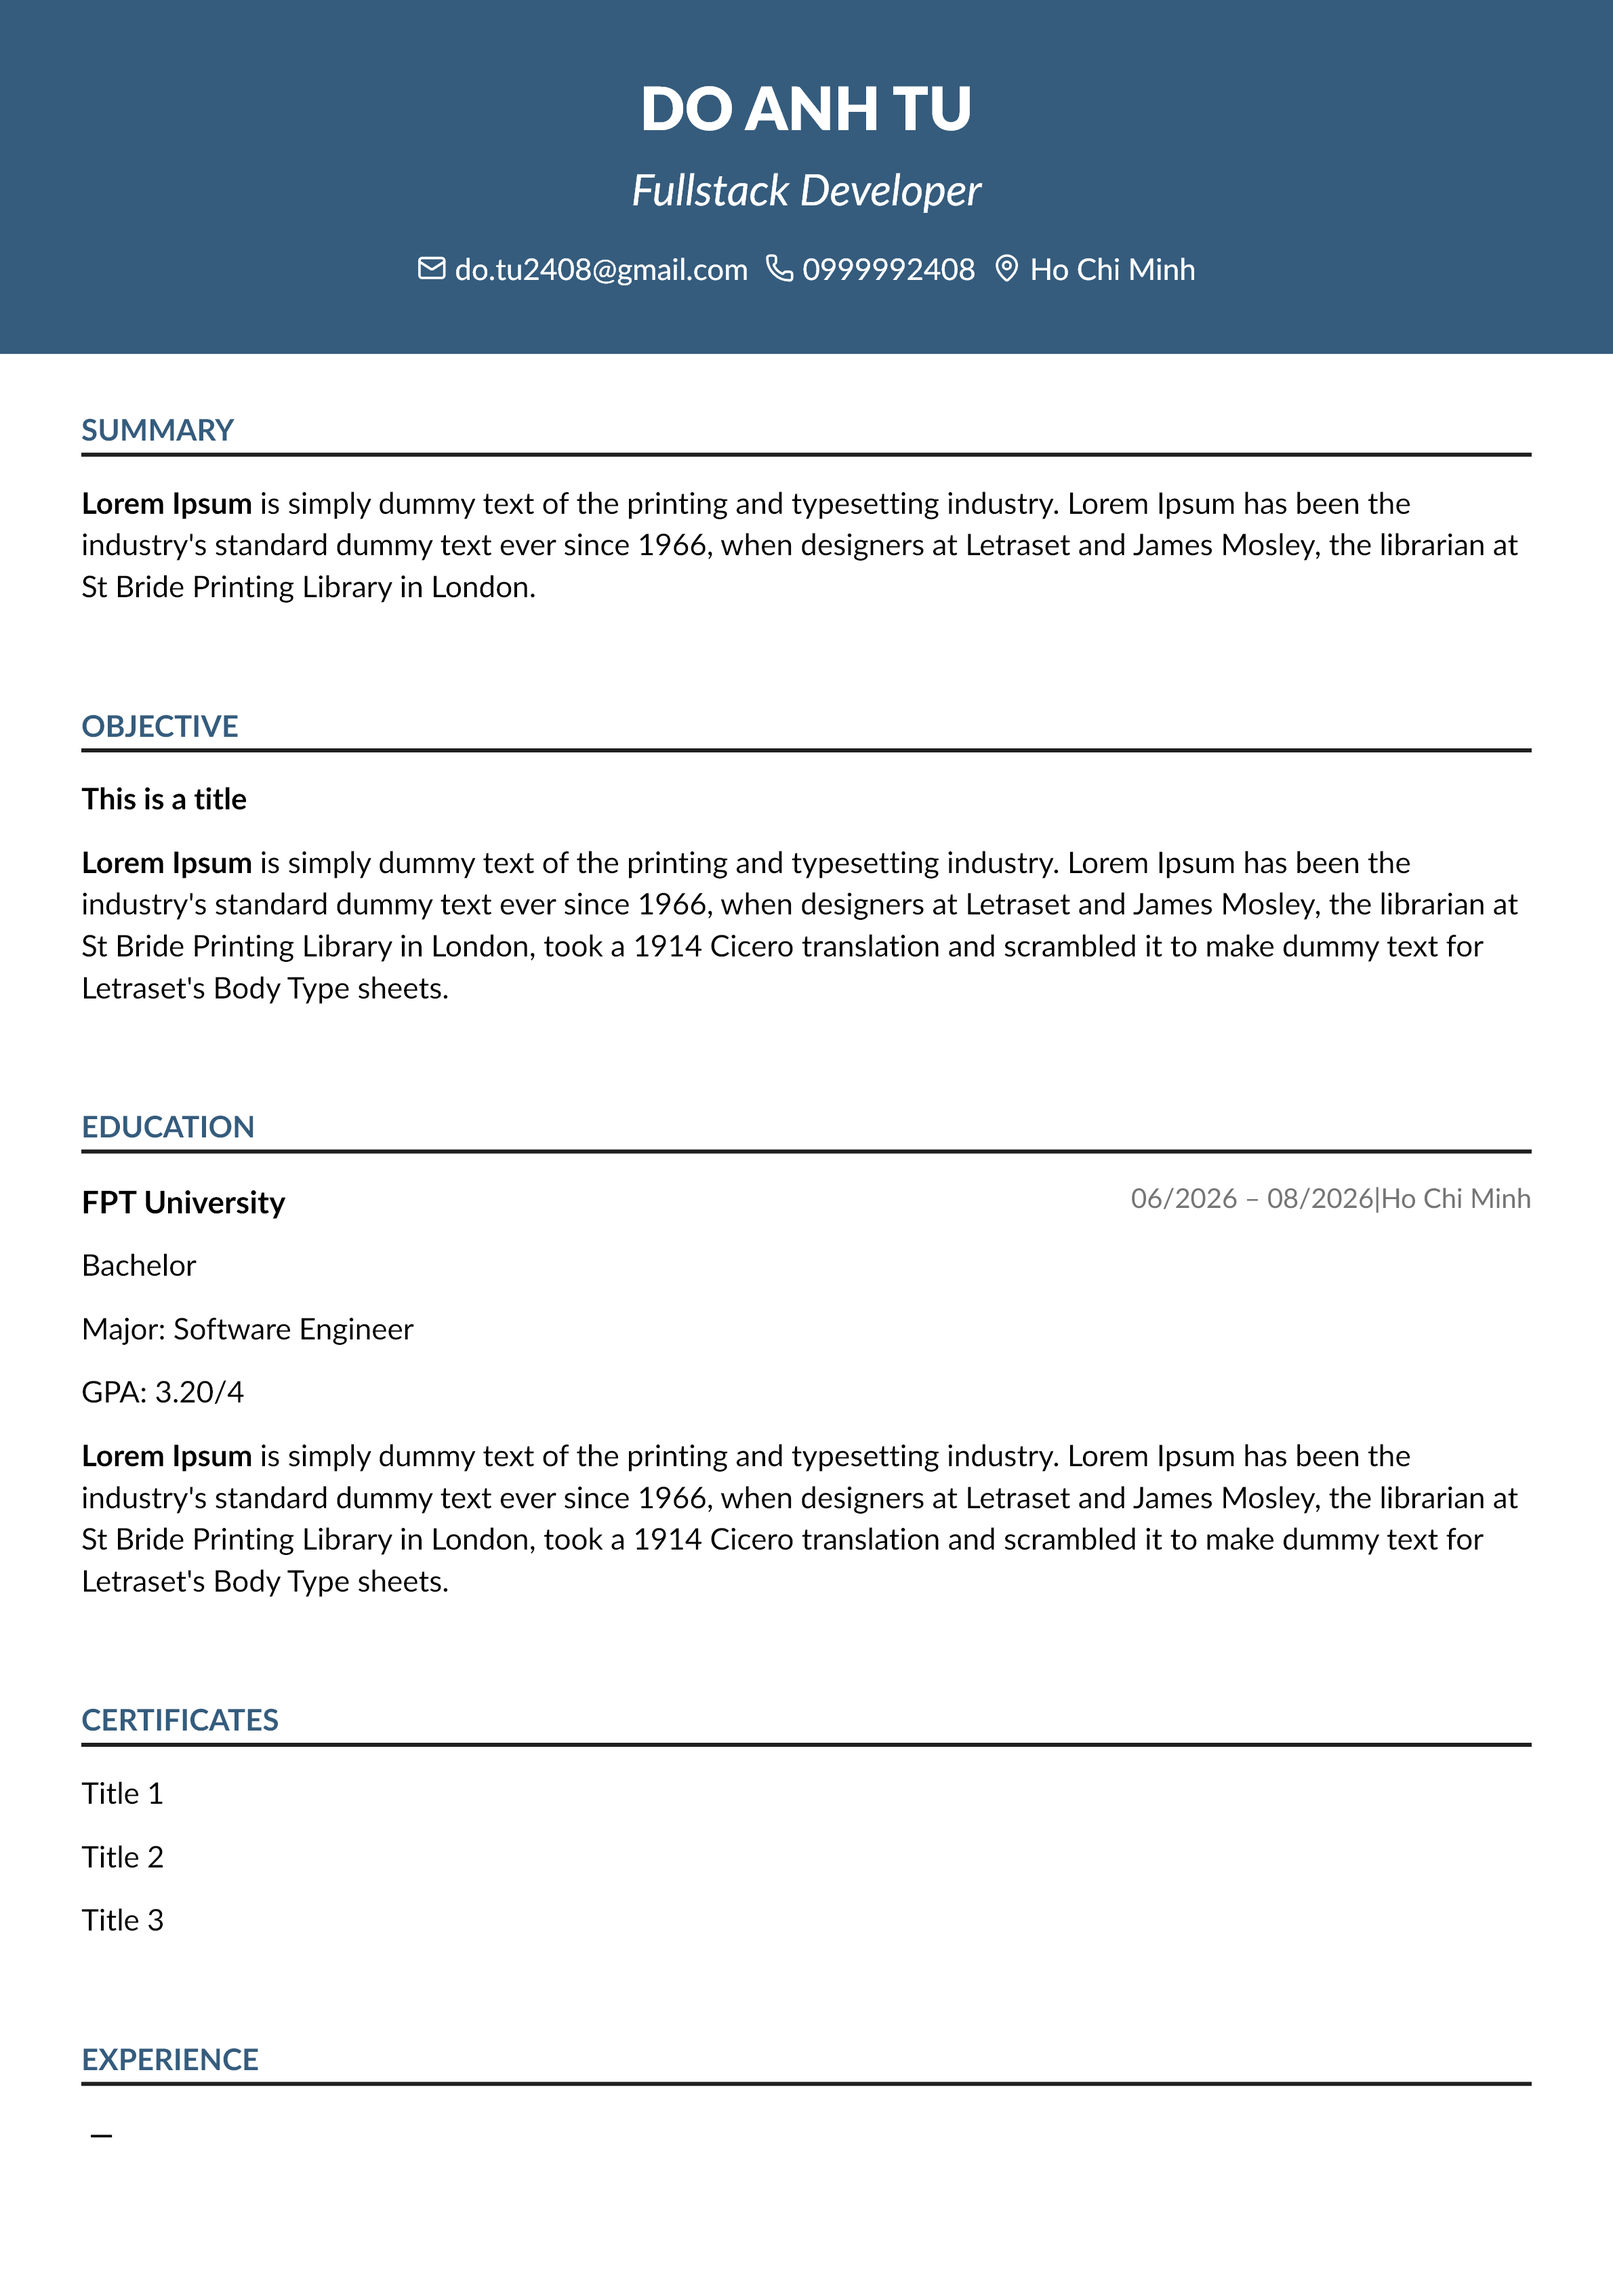
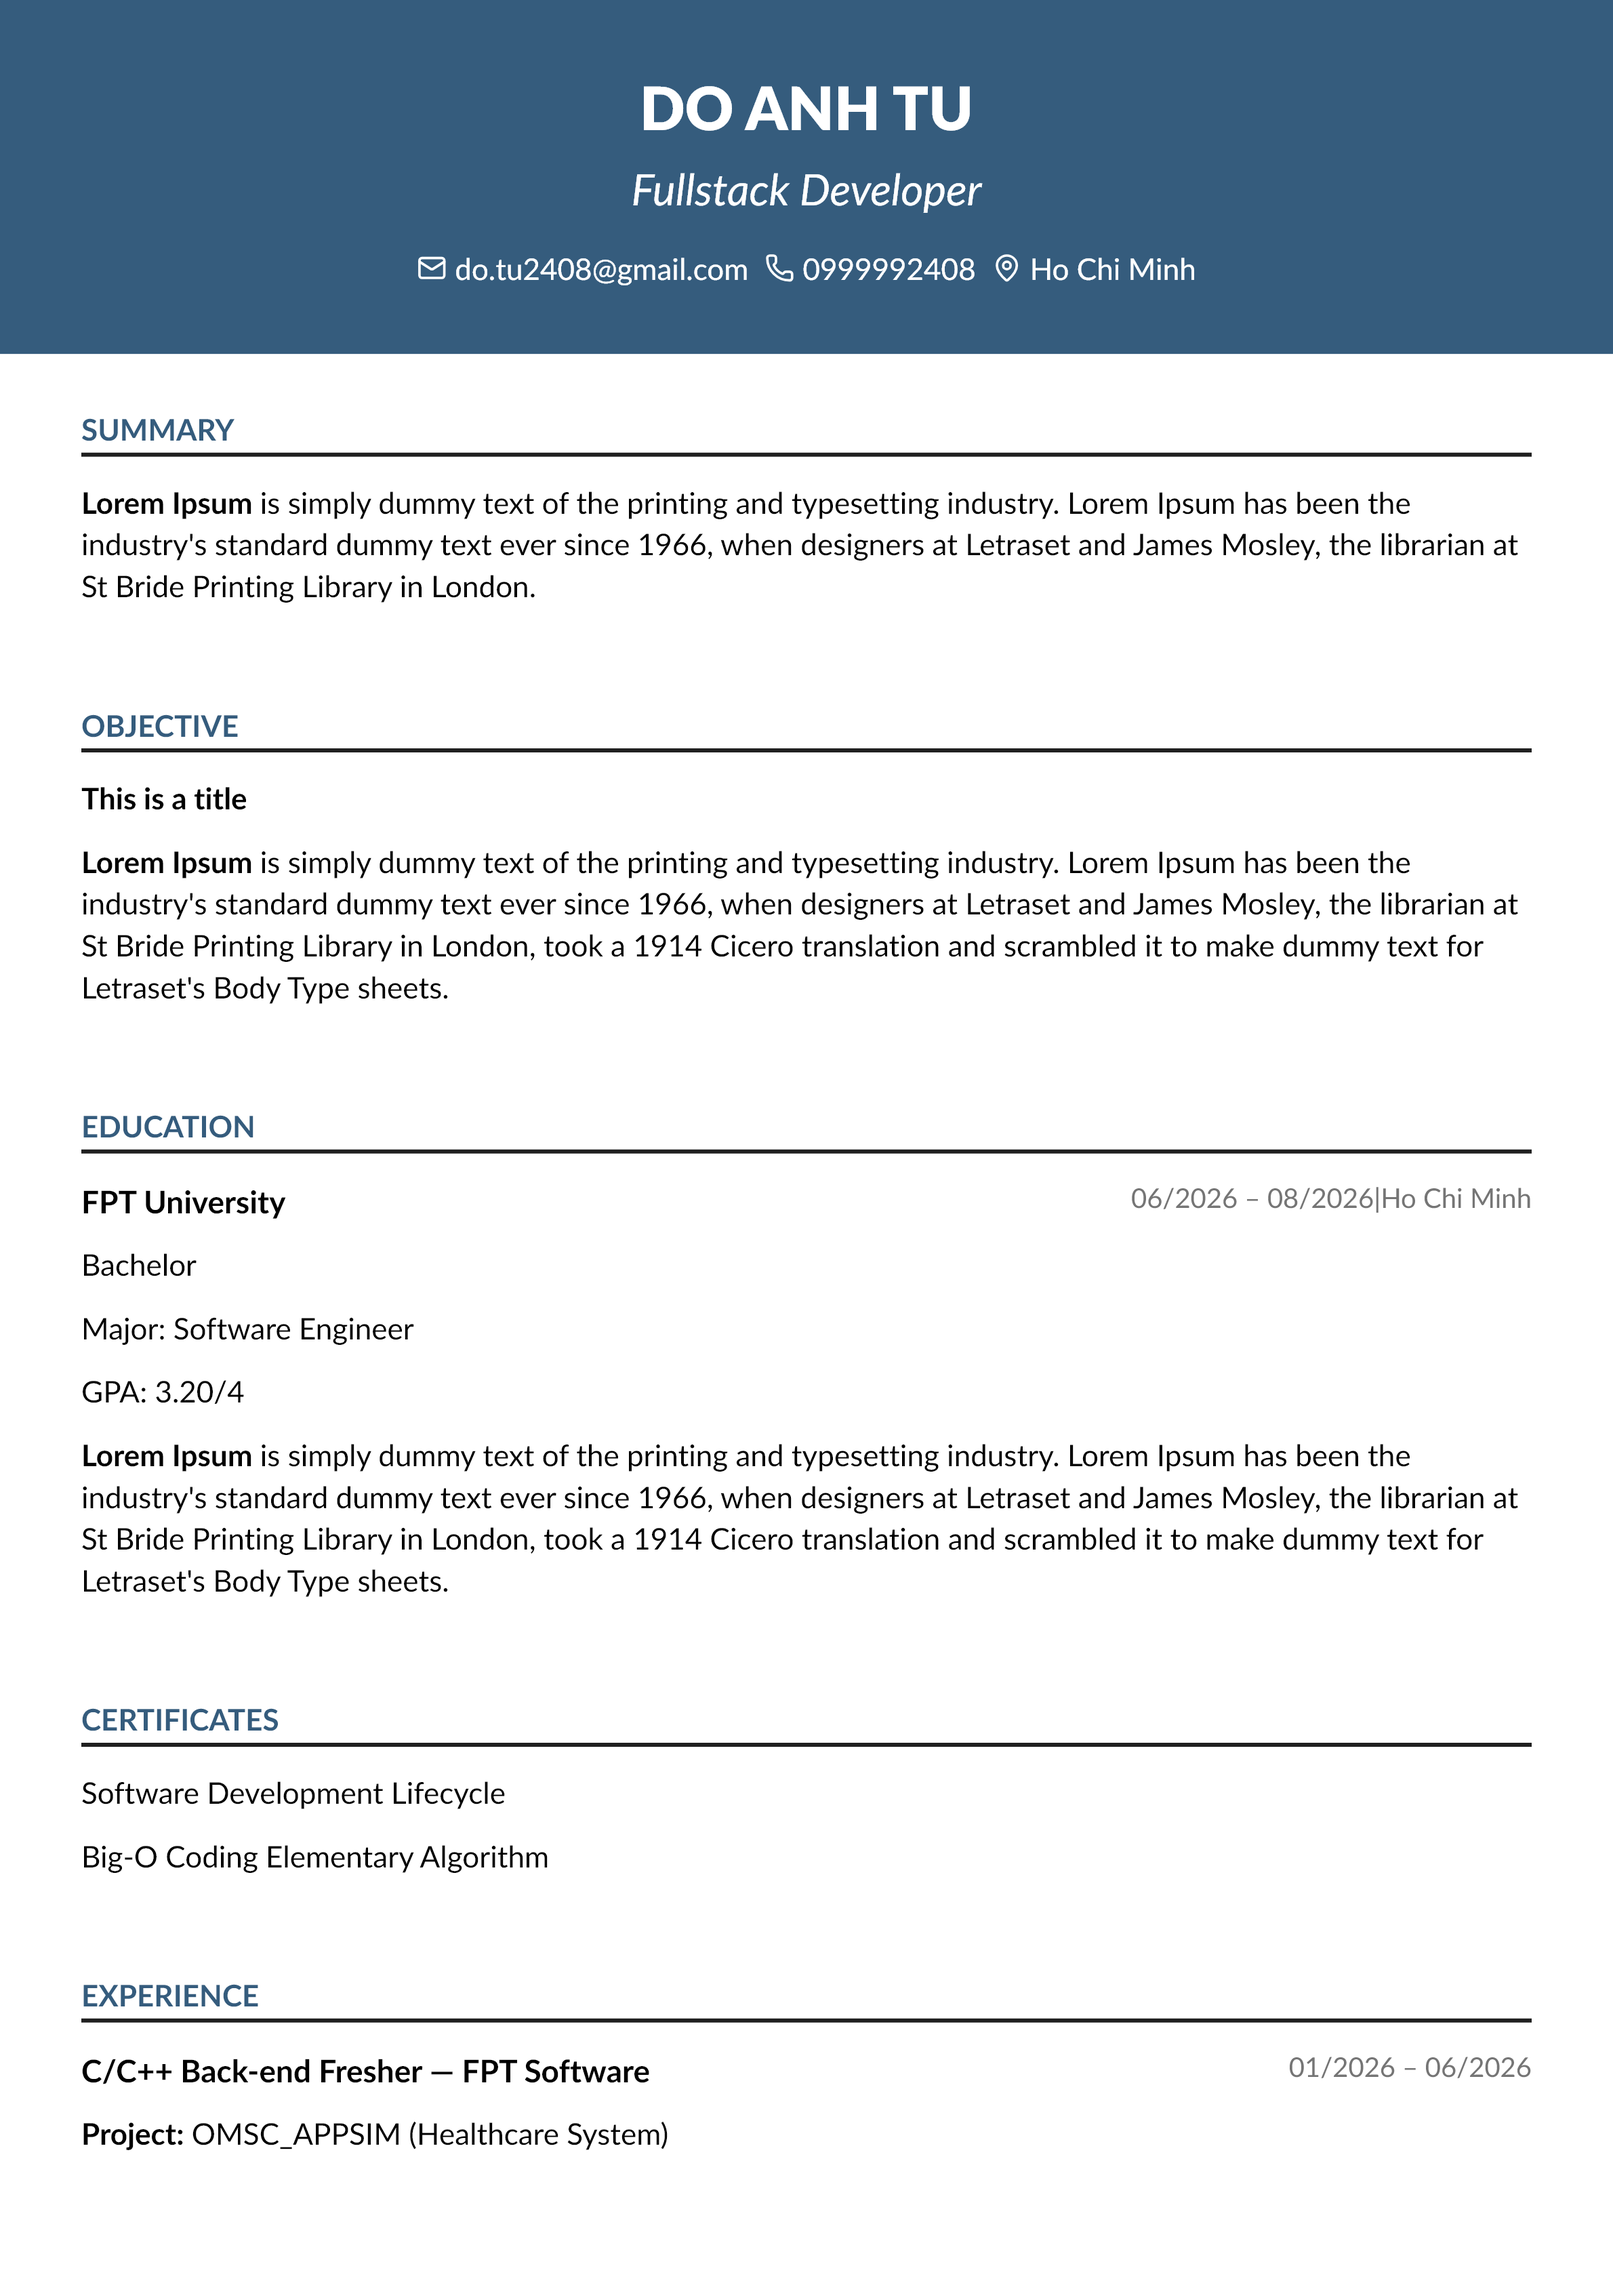
Add project README and screenshots
Expanded the project documentation with a polished bilingual README covering overview, features, architecture, setup, and roadmap. Added a full set of ResumeBuilder screenshots under Images for the showcase, and refreshed the generated resume thumbnail asset referenced by the app.

Changed region(s): [[0.0311, 0.7794, 0.4042, 0.9353], [0.8084, 0.8729, 0.9328, 0.9353], [0.2487, 0.7794, 0.3109, 0.8417]]

diff --git a/README.md b/README.md
@@ -1,2 +1,260 @@
-# ResumeBuilder
+<div align="center">
+  <img src="resume-builder-logo.jpg" alt="ResumeBuilder logo" width="120" />
 
+  # ResumeBuilder
+
+  A web app for building, editing, and exporting professional resumes/cover letters right in the browser, with a realtime preview and PDF export.
+
+  ![.NET](https://img.shields.io/badge/.NET-10-512BD4?logo=dotnet)
+  ![Angular](https://img.shields.io/badge/Angular-21-DD0031?logo=angular)
+  ![PostgreSQL](https://img.shields.io/badge/PostgreSQL-Npgsql-336791?logo=postgresql)
+  ![License](https://img.shields.io/badge/license-MIT-green)
+
+  English | [Tiếng Việt](#tiếng-việt)
+</div>
+
+## Overview
+
+ResumeBuilder is a personal project built to practice Clean Architecture on a .NET backend and modern Angular on the frontend, while also producing something genuinely useful: a tool that lets users build a resume section by section (personal information, objective, education, experience, project, skill, language, certificate...), reorder everything by drag-and-drop, preview changes in real time, and export the result as a PDF.
+
+## Screenshots
+
+<p align="center">
+  <img src="Images/ResumeBuilder9.png" width="800" alt="Resume dashboard"><br>
+  <sub>Dashboard — manage all your resumes in one place</sub>
+</p>
+
+<p align="center">
+  <img src="Images/ResumeBuilder1.png" width="800" alt="Resume editor with realtime preview"><br>
+  <sub>Section-based editor with realtime preview</sub>
+</p>
+
+<table>
+<tr>
+<td width="50%"><img src="Images/ResumeBuilder4.png" alt="Section customization"><br><sub>Per-section layout customization (Education)</sub></td>
+<td width="50%"><img src="Images/ResumeBuilder8.png" alt="Add content"><br><sub>Extra content blocks: languages, courses, awards, references...</sub></td>
+</tr>
+</table>
+
+## Key features
+
+- **Authentication**: register, login, Google sign-in, refresh token, JWT.
+- **Multiple resumes**: create, edit, and delete multiple resumes per account.
+- **Section-based editor**: Personal Information, Objective, Summary, Education, Experience, Project, Skill, Language, Certificate — each with its own editor.
+- **Reordering**: drag-and-drop to reorder sections and entries within a section.
+- **Realtime preview**: form changes are reflected on the preview instantly.
+- **PDF export**: export the finished resume to PDF using QuestPDF.
+- **Thumbnails**: auto-generated thumbnail image for each resume.
+- **Cover letter**: write a cover letter alongside the resume.
+
+## Architecture & tech stack
+
+### Backend — `Back-end/ResumeBuilderSolution`
+
+Built with **Clean Architecture**, split into separate layers:
+
+```
+ResumeBuilder.Api             # Presentation layer — controllers, middlewares
+ResumeBuilder.Application     # Use cases (CQRS via MediatR), validation, mapping
+ResumeBuilder.Domain          # Entities, interfaces, pure business rules
+ResumeBuilder.Infrastructure  # Auth, PDF generation, external integrations
+ResumeBuilder.Persistence     # EF Core, repositories, migrations
+```
+
+Stack:
+- **.NET 10** / ASP.NET Core Web API
+- **MediatR** — CQRS pattern for feature-based use cases
+- **FluentValidation** — request validation
+- **Mapster** — entity/DTO mapping
+- **Entity Framework Core** + **Npgsql** (PostgreSQL)
+- **JWT Bearer** + **Google OAuth** for authentication
+- **BCrypt.Net** — password hashing
+- **QuestPDF** — PDF generation from resume data
+- **AngleSharp** — HTML processing for thumbnails/PDF
+- **Swashbuckle (Swagger)** — API documentation
+- **Docker** support
+
+### Frontend — `Front-end/ResumeBuilder`
+
+- **Angular 21** (standalone components)
+- **Tailwind CSS 4**
+- **Spartan-ng** (shadcn-style UI primitives for Angular)
+- **Tiptap** — rich text editor for resume content
+- **Lucide / FontAwesome** — icons
+- **Axios** — API calls
+- **Embla Carousel**, **ngx-scrollbar** — supporting UI
+
+Main folder structure:
+
+```
+src/app/
+├── core/          # app-wide guards, interceptors, services
+├── features/      # authentication, homepage, resume, cover-letter
+└── shared/        # shared components, models, utils, validators
+```
+
+## Getting started
+
+### Prerequisites
+
+- .NET 10 SDK
+- Node.js + npm
+- PostgreSQL
+
+### Run the backend
+
+```bash
+cd Back-end/ResumeBuilderSolution
+dotnet restore
+dotnet ef database update --project ResumeBuilder.Persistence --startup-project ResumeBuilder.Api
+dotnet run --project ResumeBuilder.Api
+```
+
+Configure the connection string, JWT secret, Google OAuth client, etc. in `appsettings.Development.json` or a `.env` file (the project uses `DotNetEnv`).
+
+### Run the frontend
+
+```bash
+cd Front-end/ResumeBuilder
+npm install
+npm start
+```
+
+The frontend runs at `http://localhost:4200` by default; the backend address is configured in Swagger (`/swagger`).
+
+## Roadmap
+
+- Once funding allows, deploy ResumeBuilder to a public, always-on environment and release it as a free tool for everyone — especially students who need a quick, no-cost way to put together a professional resume.
+
+## License
+
+Released under the [MIT](LICENSE) license.
+
+---
+
+<a id="tiếng-việt"></a>
+
+## Tiếng Việt
+
+<div align="center">
+
+  [English](#resumebuilder) | Tiếng Việt
+
+</div>
+
+### Giới thiệu
+
+ResumeBuilder là dự án cá nhân mình xây dựng để luyện tập kiến trúc Clean Architecture cho backend .NET và Angular hiện đại cho frontend, đồng thời tạo ra một công cụ thực tế: cho phép người dùng soạn CV theo từng phần (thông tin cá nhân, mục tiêu, học vấn, kinh nghiệm, dự án, kỹ năng, ngôn ngữ, chứng chỉ...), sắp xếp lại thứ tự bằng kéo-thả, xem trước theo thời gian thực và xuất ra file PDF.
+
+### Hình ảnh minh họa
+
+<p align="center">
+  <img src="Images/ResumeBuilder9.png" width="800" alt="Trang quản lý CV"><br>
+  <sub>Trang Dashboard — quản lý tất cả CV của bạn tại một nơi</sub>
+</p>
+
+<p align="center">
+  <img src="Images/ResumeBuilder1.png" width="800" alt="Trình soạn thảo CV với xem trước realtime"><br>
+  <sub>Trình soạn thảo theo section, xem trước realtime</sub>
+</p>
+
+<table>
+<tr>
+<td width="50%"><img src="Images/ResumeBuilder4.png" alt="Tùy chỉnh section"><br><sub>Tùy chỉnh layout riêng cho từng section (Education)</sub></td>
+<td width="50%"><img src="Images/ResumeBuilder8.png" alt="Thêm nội dung"><br><sub>Các khối nội dung bổ sung: ngôn ngữ, khóa học, giải thưởng, người tham chiếu...</sub></td>
+</tr>
+</table>
+
+### Tính năng chính
+
+- **Xác thực người dùng**: đăng ký, đăng nhập, đăng nhập bằng Google, refresh token, JWT.
+- **Quản lý nhiều CV**: tạo, chỉnh sửa, xóa nhiều bản CV cho một tài khoản.
+- **Trình soạn thảo theo section**: Personal Information, Objective, Summary, Education, Experience, Project, Skill, Language, Certificate — mỗi section có editor riêng.
+- **Sắp xếp lại (Reorder)**: kéo-thả để đổi thứ tự section và entry trong từng section.
+- **Xem trước realtime**: thay đổi ở form được phản ánh ngay trên bản xem trước.
+- **Xuất PDF**: xuất CV hoàn chỉnh ra file PDF bằng QuestPDF.
+- **Thumbnail**: tự sinh ảnh thu nhỏ cho từng CV.
+- **Cover Letter**: soạn thư xin việc đi kèm CV.
+
+### Kiến trúc & công nghệ
+
+#### Backend — `Back-end/ResumeBuilderSolution`
+
+Xây dựng theo **Clean Architecture**, tách thành các layer riêng biệt:
+
+```
+ResumeBuilder.Api             # Presentation layer — Controllers, middlewares
+ResumeBuilder.Application     # Use cases (CQRS với MediatR), validation, mapping
+ResumeBuilder.Domain          # Entities, interfaces, business rules thuần
+ResumeBuilder.Infrastructure  # Xác thực, sinh PDF, tích hợp bên ngoài
+ResumeBuilder.Persistence     # EF Core, repository, migrations
+```
+
+Công nghệ sử dụng:
+- **.NET 10** / ASP.NET Core Web API
+- **MediatR** — CQRS pattern cho use case theo từng feature
+- **FluentValidation** — validate request
+- **Mapster** — mapping giữa entity/DTO
+- **Entity Framework Core** + **Npgsql** (PostgreSQL)
+- **JWT Bearer** + **Google OAuth** cho xác thực
+- **BCrypt.Net** — mã hóa mật khẩu
+- **QuestPDF** — sinh file PDF từ CV
+- **AngleSharp** — xử lý HTML khi sinh thumbnail/PDF
+- **Swashbuckle (Swagger)** — tài liệu API
+- Hỗ trợ chạy bằng **Docker**
+
+#### Frontend — `Front-end/ResumeBuilder`
+
+- **Angular 21** (standalone components)
+- **Tailwind CSS 4**
+- **Spartan-ng** (bộ UI primitives phong cách shadcn cho Angular)
+- **Tiptap** — rich text editor cho các phần nội dung CV
+- **Lucide / FontAwesome** — icon
+- **Axios** — gọi API
+- **Embla Carousel**, **ngx-scrollbar** — UI phụ trợ
+
+Cấu trúc thư mục chính:
+
+```
+src/app/
+├── core/          # guard, interceptor, service dùng chung toàn app
+├── features/      # authentication, homepage, resume, cover-letter
+└── shared/        # component, model, util, validator dùng chung
+```
+
+### Bắt đầu
+
+#### Yêu cầu
+
+- .NET 10 SDK
+- Node.js + npm
+- PostgreSQL
+
+#### Chạy backend
+
+```bash
+cd Back-end/ResumeBuilderSolution
+dotnet restore
+dotnet ef database update --project ResumeBuilder.Persistence --startup-project ResumeBuilder.Api
+dotnet run --project ResumeBuilder.Api
+```
+
+Cấu hình connection string, JWT secret, Google OAuth client... trong `appsettings.Development.json` hoặc file `.env` (dự án dùng `DotNetEnv`).
+
+#### Chạy frontend
+
+```bash
+cd Front-end/ResumeBuilder
+npm install
+npm start
+```
+
+Ứng dụng frontend mặc định chạy tại `http://localhost:4200`, backend tại địa chỉ cấu hình trong Swagger (`/swagger`).
+
+### Định hướng tương lai
+
+- Nếu sau này có điều kiện tài chính, mình dự định sẽ deploy ResumeBuilder lên môi trường public và phát hành miễn phí cho mọi người dùng, đặc biệt hướng đến đối tượng sinh viên — những người cần một công cụ nhanh, không tốn phí để tạo CV chuyên nghiệp.
+
+### License
+
+Phát hành theo giấy phép [MIT](LICENSE).
